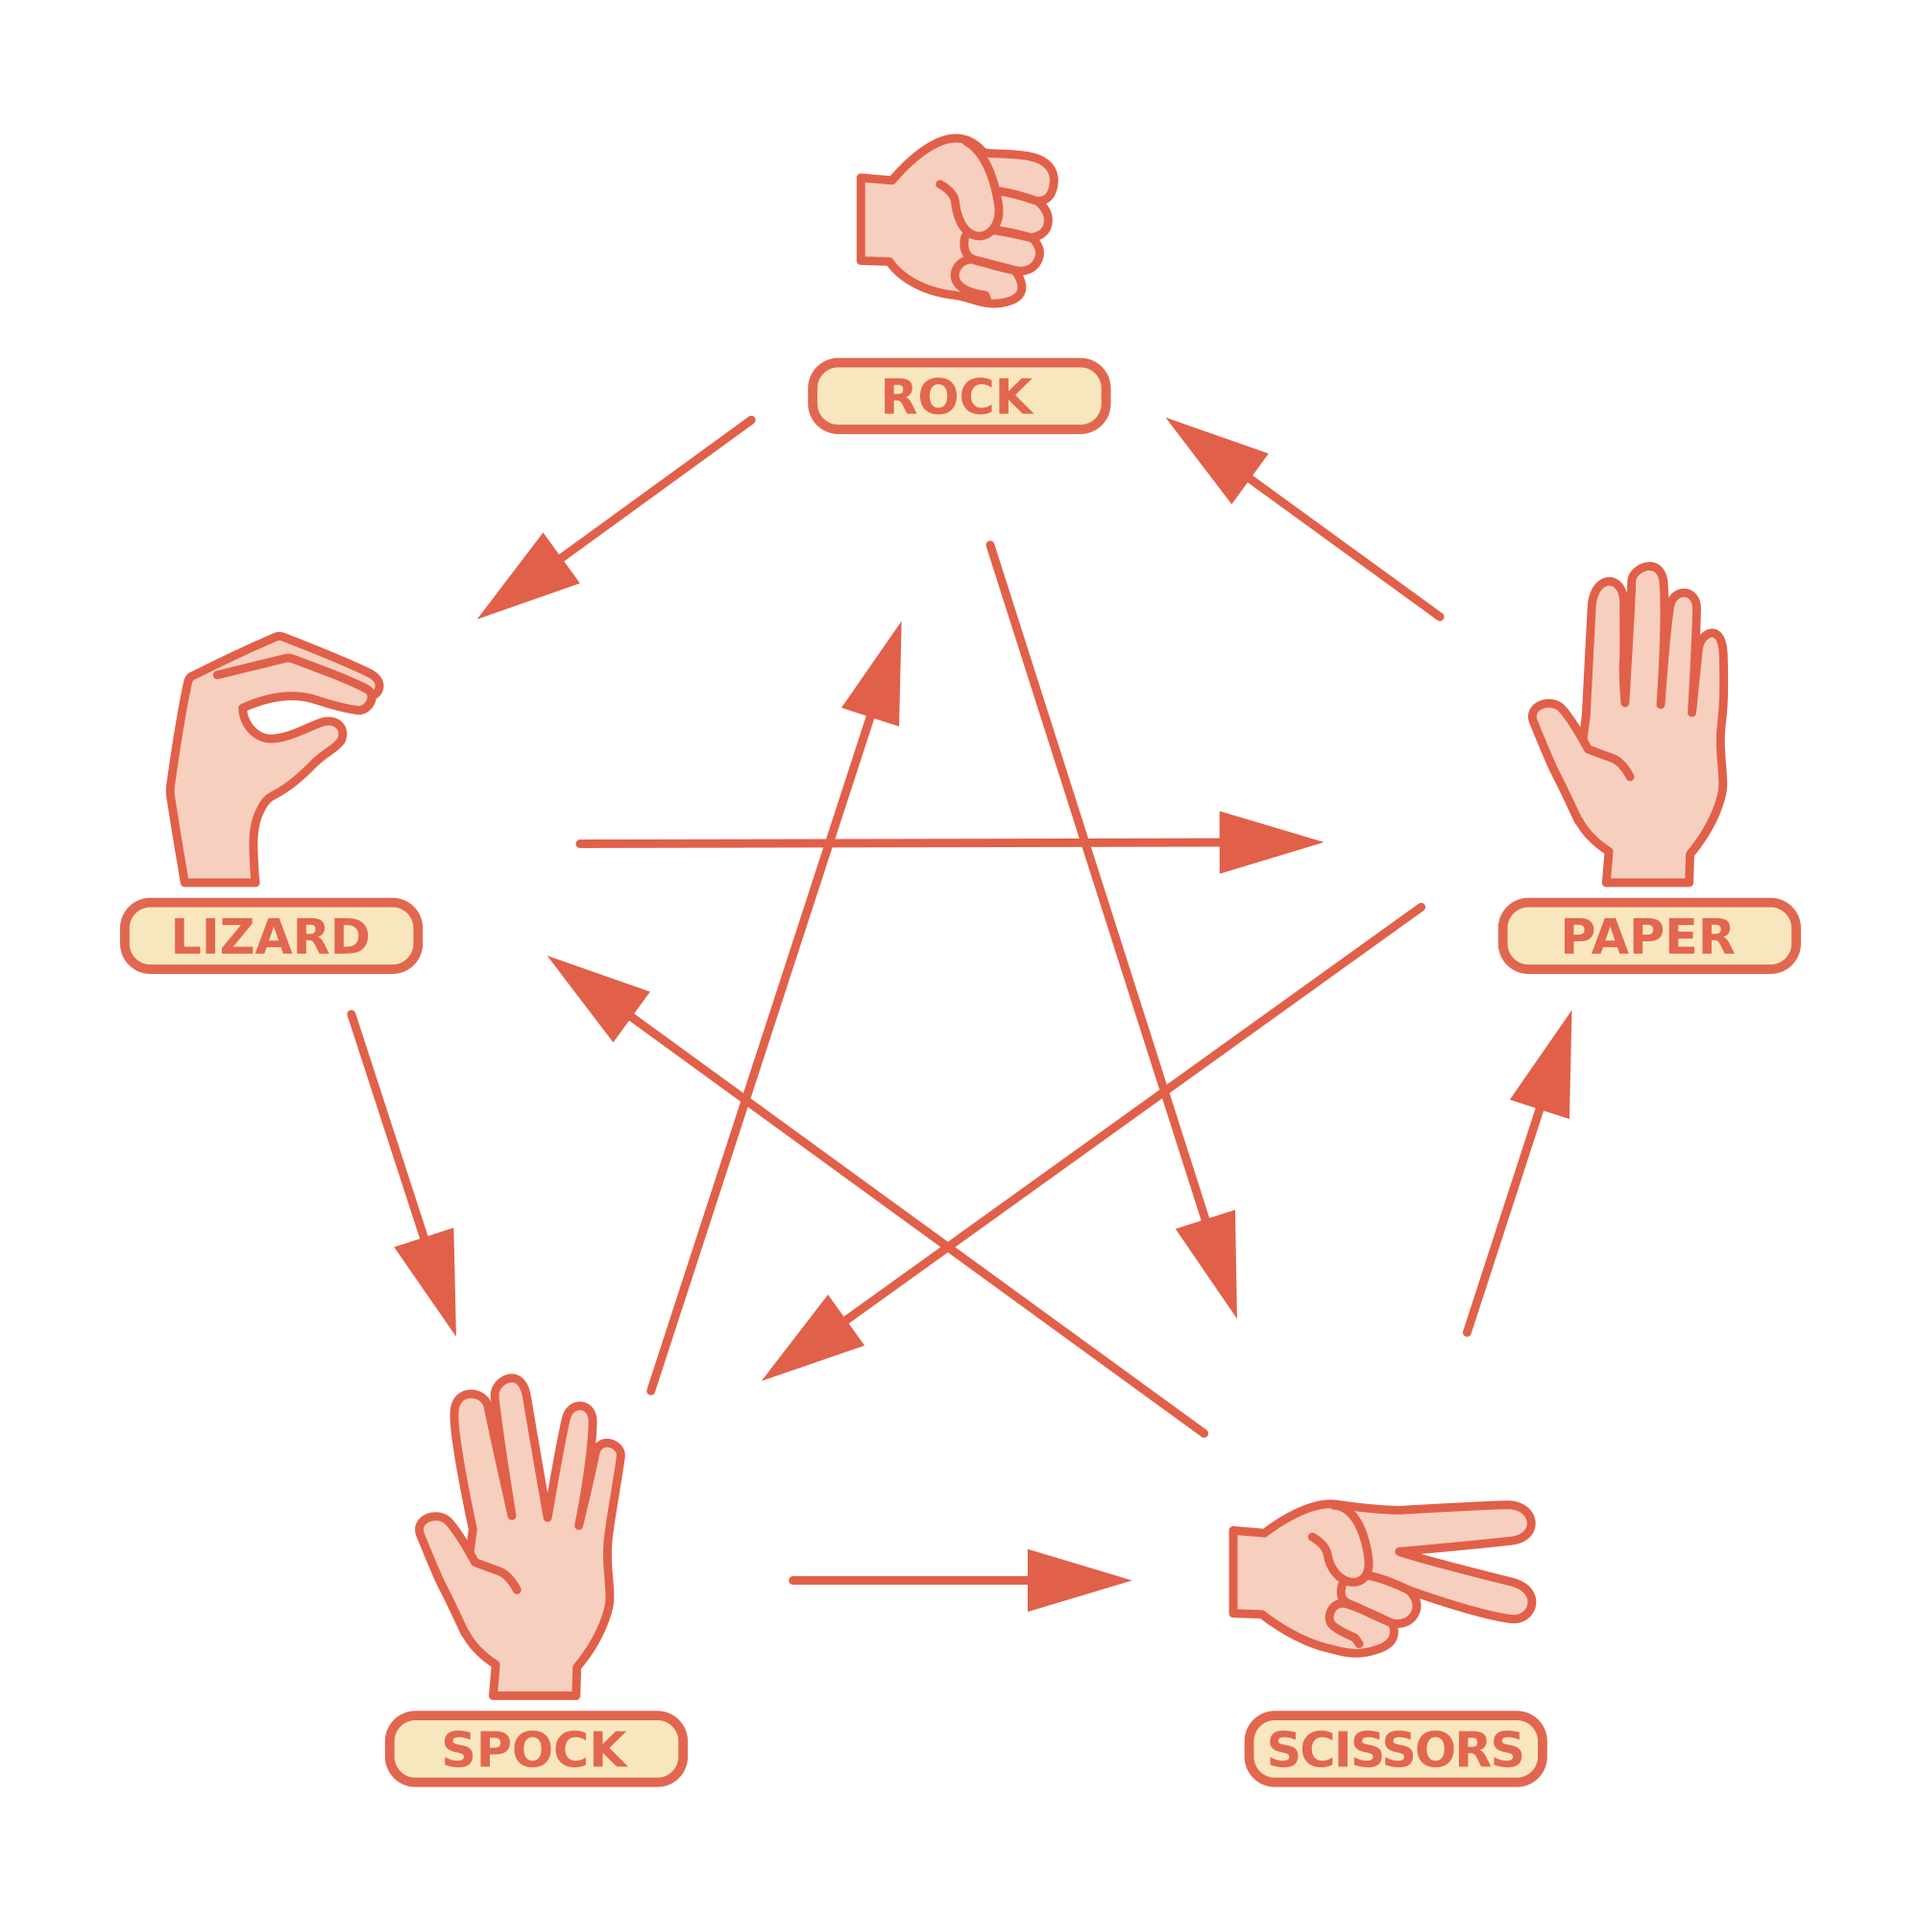
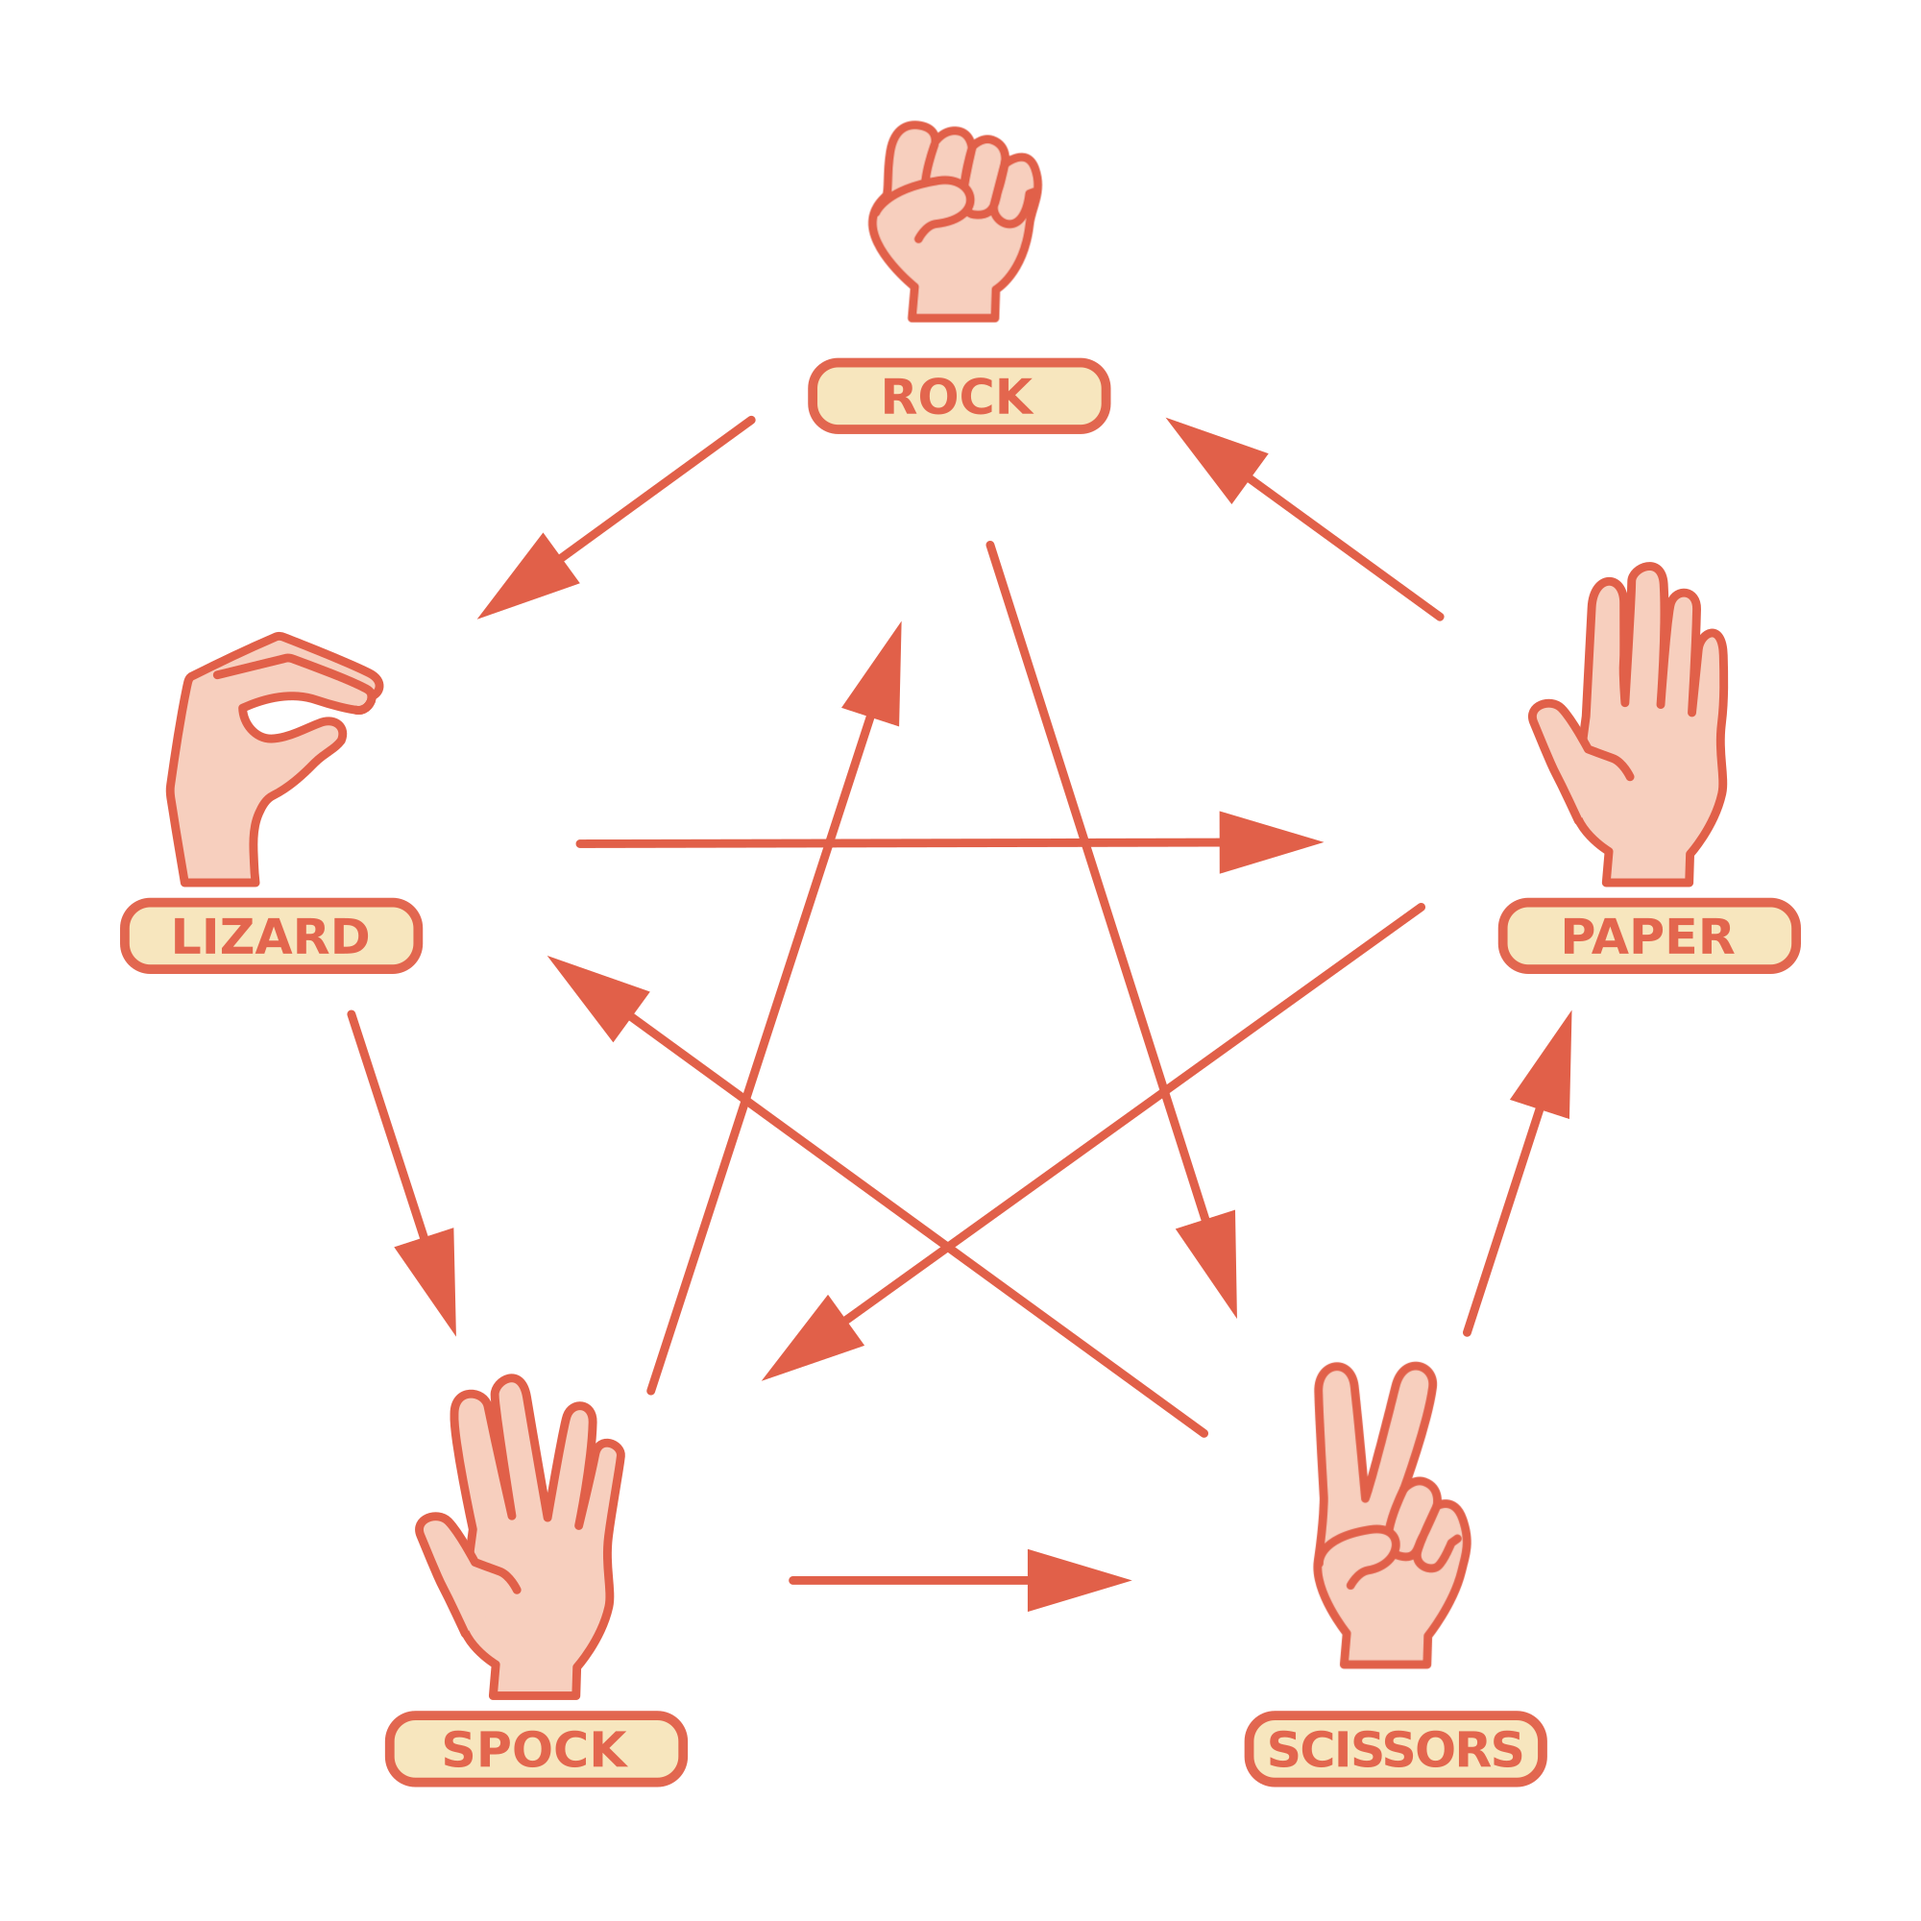
Updated Art and Added Turn Order Handler

Changed region(s): [[0.62, 0.713, 0.806, 0.868], [0.434, 0.062, 0.558, 0.186]]

diff --git a/Clash of Hands Unity/Assets/Scripts/GamSystem/GameManager.cs b/Clash of Hands Unity/Assets/Scripts/GamSystem/GameManager.cs
@@ -1,3 +1,4 @@
+using System.Collections.Generic;
 using ClashOfHands.Data;
 using NaughtyAttributes;
 using UnityEngine;
@@ -10,7 +11,18 @@ namespace ClashOfHands.Systems
         public void PollCardInput();
     }
 
-    public class GameManager : MonoBehaviourSingleton<GameManager>, ICardInputPoller
+    public interface ITurnUpdateHandler
+    {
+        public void OnTurnBegin();
+    }
+
+    public interface ITurnUpdateProvider
+    {
+        public void RegisterForTurnUpdates(ITurnUpdateHandler handler);
+        public void UnRegisterForTurnUpdates(ITurnUpdateHandler handler);
+    }
+
+    public class GameManager : MonoBehaviourSingleton<GameManager>, ICardInputPoller, ITurnUpdateProvider
     {
         [SerializeField]
         private GameData _gameData;
@@ -37,7 +49,9 @@ namespace ClashOfHands.Systems
 
         private int _playerIndices = 0;
 
-        public Sprite[] AvatarSprites => _avatarDatabase.Avatars;
+        private Sprite[] AvatarSprites => _avatarDatabase.Avatars;
+
+        private List<ITurnUpdateHandler> _turnBeginHandlers = new(8);
 
         private void Start()
         {
@@ -54,10 +68,11 @@ namespace ClashOfHands.Systems
                 MainMenuManager.Instance.ShowState(MainMenuManager.States.AvatarSelection);
             else
             {
-                _player.SetAvatar(_player.PlayerIndex, AvatarSprites[_player.PlayerIndex]);
+                _player.SetAvatar(_player.AvatarId, AvatarSprites[_player.AvatarId]);
                 MainMenuManager.Instance.ShowState(MainMenuManager.States.MainMenu);
-                GameHUD.Instance.Hide();
             }
+
+            GameHUD.Instance.Hide();
         }
 
         public void ResetGame()
@@ -82,7 +97,7 @@ namespace ClashOfHands.Systems
         public void SetUpGame()
         {
             RegisterInputSources();
-            InitializeGame();
+            InitializeGameUI();
         }
 
         private void RegisterInputSources()
@@ -93,12 +108,22 @@ namespace ClashOfHands.Systems
 
             //Set AI
             _aiPlayers.Initialize(_gameData, this, _gameData.Players - 1, AvatarSprites.Length);
+
+            for (int i = 0; i < _aiPlayers.Length; i++)
+                _otherAvatarSprites[i] = AvatarSprites[_aiPlayers[i].AvatarIndex];
         }
 
-        private void InitializeGame()
+        private void InitializeGameUI()
         {
-            GameHUD.Instance.SetUpGameFromGameData(_gameData, _turnTime);
+            GameHUD.Instance.SetUpGameFromGameData(_gameData, _turnTime, this);
             GameHUD.Instance.SetScoreHUD(_player.AvatarSprite, _otherAvatarSprites);
+        }
+
+        [Button]
+        public void StartTurn()
+        {
+            foreach (var turnBeginHandle in _turnBeginHandlers)
+                turnBeginHandle?.OnTurnBegin();
         }
 
         public void PollCardInput()
@@ -124,6 +149,27 @@ namespace ClashOfHands.Systems
         {
             _player.SetAvatar(avatarId, sprite);
             _player.SaveData();
+        }
+
+        public void RegisterForTurnUpdates(ITurnUpdateHandler handler)
+        {
+            _turnBeginHandlers.Add(handler);
+        }
+
+        public void UnRegisterForTurnUpdates(ITurnUpdateHandler handler)
+        {
+            var count = _turnBeginHandlers.Count;
+            for (int i = 0; i < count; i++)
+            {
+                if (ReferenceEquals(_turnBeginHandlers[i], handler))
+                {
+                    var lastHandler = _turnBeginHandlers[count - 1];
+                    _turnBeginHandlers[i] = lastHandler;
+                    _turnBeginHandlers.RemoveAt(count - 1);
+                    count--;
+                    i--;
+                }
+            }
         }
     }
 }

diff --git a/Clash of Hands Unity/Assets/Scripts/UI/CardShowTable.cs b/Clash of Hands Unity/Assets/Scripts/UI/CardShowTable.cs
@@ -1,10 +1,12 @@
 using System.Collections.Generic;
+using ClashOfHands.Data;
+using ClashOfHands.Systems;
 using NaughtyAttributes;
 using UnityEngine;
 
 namespace ClashOfHands.UI
 {
-    public class CardShowTable : MonoBehaviour
+    public class CardShowTable : MonoBehaviour, ITurnUpdateHandler
     {
         [SerializeField]
         private List<CardShowUI> _showCards;
@@ -13,13 +15,24 @@ namespace ClashOfHands.UI
         [Range(0, 350)]
         private float spacing = 0;
 
-        public void Initialize(int playerCount)
+        private CardData[] _gameCards;
+
+        private List<CardShowUI> _activeCards = new List<CardShowUI>(4);
+
+        public void Initialize(int playerCount, CardData[] gameCards, ITurnUpdateProvider turnUpdate)
         {
+            _gameCards = gameCards;
             UpdateCardPosition(playerCount);
+            turnUpdate.RegisterForTurnUpdates(this);
         }
 
         private void UpdateCardPosition(int players)
         {
+            foreach (var activeCard in _activeCards)
+                activeCard.StopAnimation();
+
+            _activeCards.Clear();
+
             if (players == 0)
                 return;
 
@@ -38,7 +51,14 @@ namespace ClashOfHands.UI
                 var position = card.up * -spacing;
                 card.transform.localPosition = position;
                 card.SetAsFirstSibling();
+                _activeCards.Add(_showCards[i]);
             }
+        }
+
+        public void OnTurnBegin()
+        {
+            foreach (var cardShowUI in _activeCards)
+                cardShowUI.AnimateCardIcon(_gameCards);
         }
 
 #if UNITY_EDITOR

diff --git a/Clash of Hands Unity/Assets/Scripts/GamSystem/GameHUD.cs b/Clash of Hands Unity/Assets/Scripts/GamSystem/GameHUD.cs
@@ -22,11 +22,11 @@ namespace ClashOfHands.Systems
 
         private int _localPlayerIndex = 0;
 
-        public void SetUpGameFromGameData(GameData gameData, float turnTime)
+        public void SetUpGameFromGameData(GameData gameData, float turnTime, ITurnUpdateProvider turnUpdate)
         {
             _visual.SetActive(true);
             _cardDeck.SetUpDeck(gameData.GameCards, turnTime);
-            _cardTable.Initialize(gameData.Players);
+            _cardTable.Initialize(gameData.Players, gameData.GameCards, turnUpdate);
         }
 
         public void RegisterPlayerInput(ICardInputPoller inputPoller, int localPlayerIndex)

diff --git a/Clash of Hands Unity/Assets/Scripts/GamSystem/AIPlayers.cs b/Clash of Hands Unity/Assets/Scripts/GamSystem/AIPlayers.cs
@@ -17,7 +17,10 @@ namespace ClashOfHands.Systems
 
         private AICardInput[] _aiPlayers;
 
-        public void Initialize(GameData gameData, ICardInputPoller inputPoller, int aiInstances,int avatarCount)
+        public AICardInput this[int index] => _aiPlayers[index];
+        public int Length => _aiPlayers.Length;
+
+        public void Initialize(GameData gameData, ICardInputPoller inputPoller, int aiInstances, int avatarCount)
         {
             _gameData = gameData;
 

diff --git a/Clash of Hands Unity/Assets/Scripts/UI/Scoreboard.cs b/Clash of Hands Unity/Assets/Scripts/UI/Scoreboard.cs
@@ -20,9 +20,11 @@ namespace ClashOfHands.UI
 
             _playerScorecardUI.UpdateCardUI("0", playerSprite);
 
+            _scorecardPool.InitializePool();
             foreach (var avatarSprite in avatarSprites)
             {
                 var card = _scorecardPool.Get();
+                card.gameObject.SetActive(true);
                 card.UpdateCardUI("0", avatarSprite);
                 _activeScorecards.Add(card);
             }
